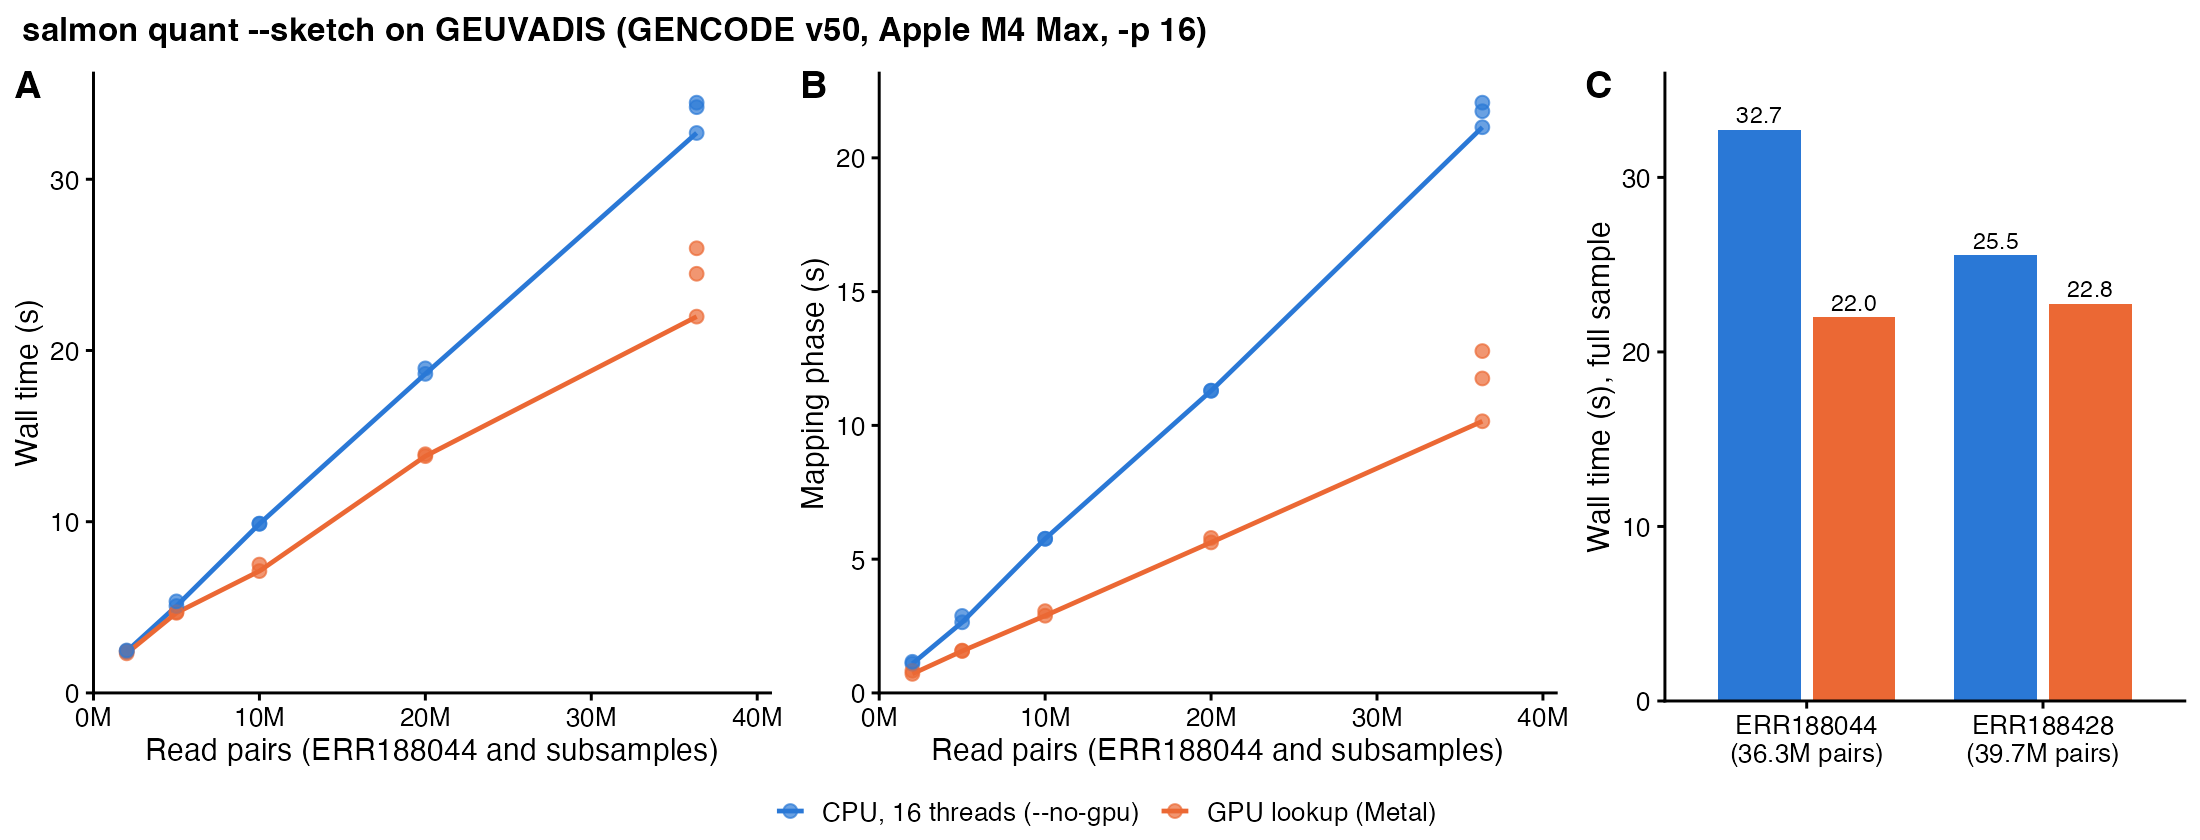
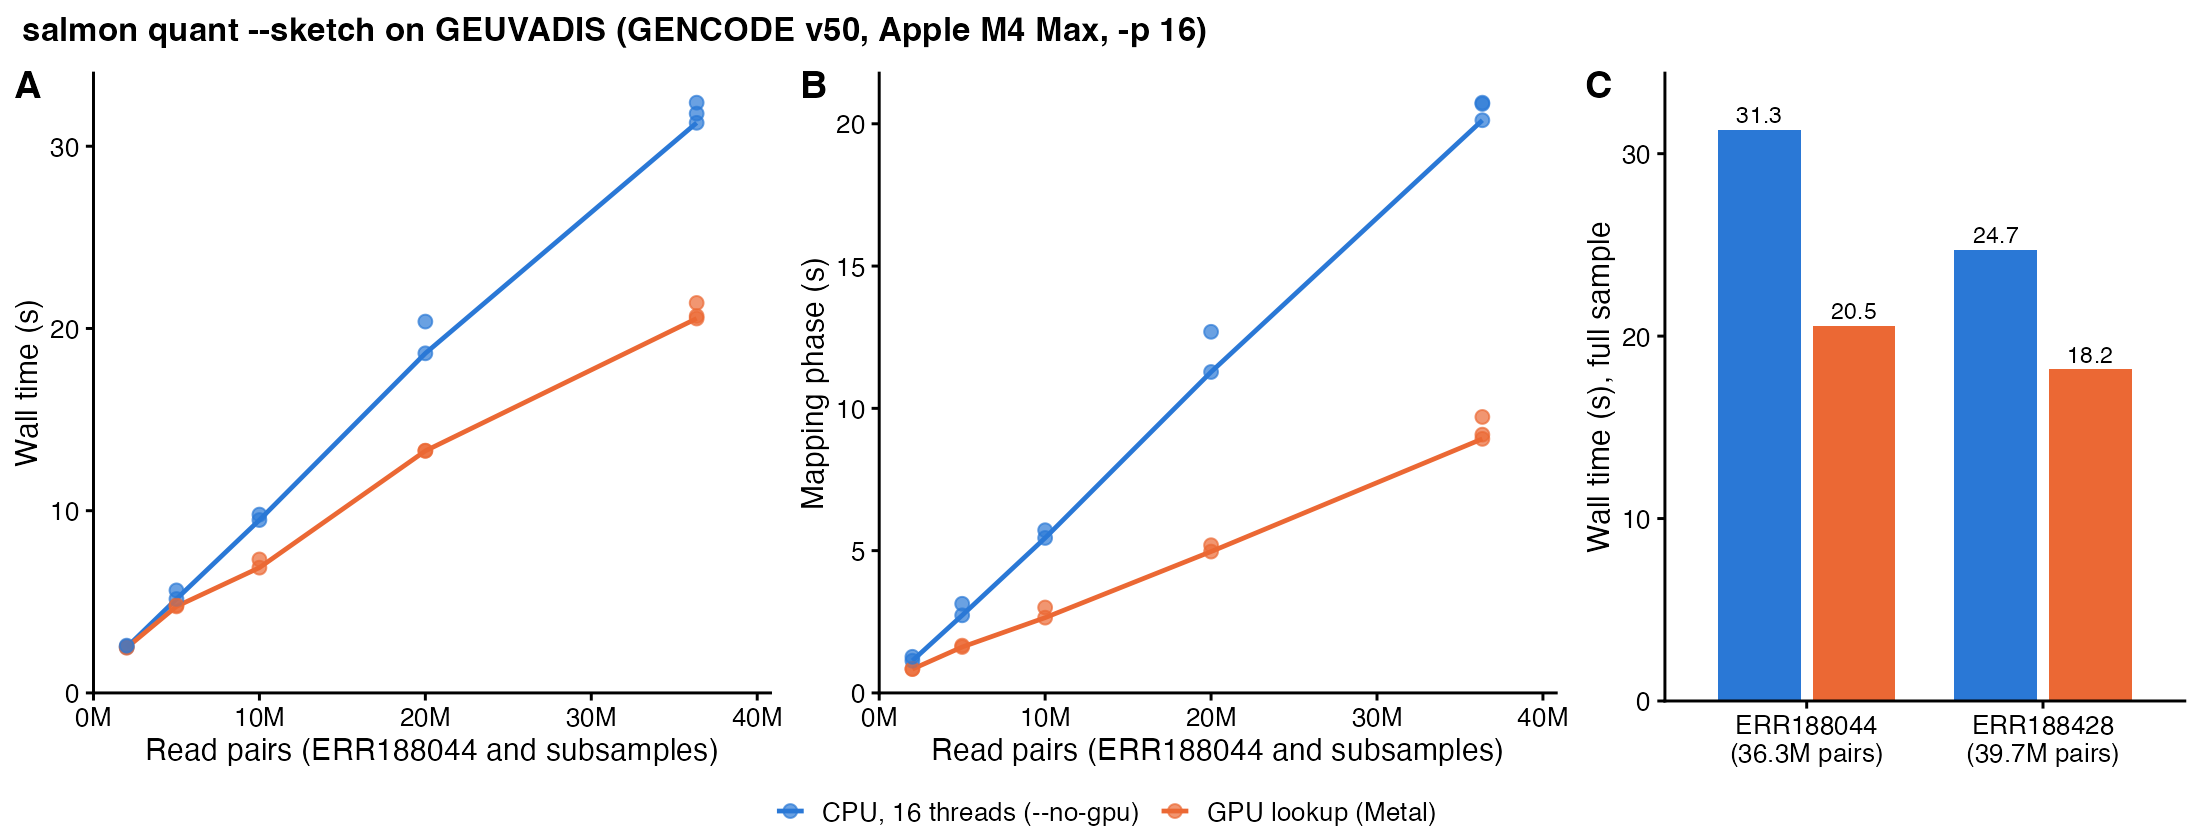
docs(gpu): GEUVADIS after the heavy-bucket table and the read-ahead
Curve and full samples re-measured at e65b475e. GPU path: ERR188044
22.0 -> 20.5 s (mapping 10.2 -> 8.9 s), ERR188428 22.8 -> 18.2 s
(11.1 -> 8.1 s); mapping slope 0.28 -> 0.23 s per million pairs.
Equivalence classes identical to --no-gpu on both samples.

diff --git a/docs/em-architecture-and-optimization.md b/docs/em-architecture-and-optimization.md
@@ -870,8 +870,8 @@ The changes were:
 Two GEUVADIS samples (2×76 bp lymphoblastoid RNA-seq, gzip FASTQ from ENA)
 against GENCODE v50 (654,828 transcripts, `salmon index --gencode`), on the same
 M4 Max with `-p 16 --dumpEq`. Each figure is the fastest of 3 alternated runs.
-The `--sketch` rows were measured with the GPU target selection, under a load
-average of 13–22. The selective-alignment rows are from the round before it,
+The `--sketch` rows were measured with the GPU target selection, the
+heavy-bucket table and the read-ahead, under a load average of 7–16. The selective-alignment rows are from the round before it,
 under 20–110; most of that load came from these runs' own threads. "GPU memory" is the Metal device's allocation once the lookup is
 built (`device_mb` in the `gpu_kmer_table` log line). On Apple silicon it is
 unified memory and is also counted in the process RSS, so the two do not add.
@@ -883,12 +883,12 @@ The index takes 10.9–12.9 s to build (4 builds), peaks at 5.3 GB of RSS and is
 
 | Sample | Mode | Run | Mapping | CPU RAM (peak RSS) | GPU memory | Mapped |
 |---|---|---:|---:|---:|---:|---:|
-| ERR188044, 36.3M pairs | `--sketch`, GPU | 22.0 s | 10.2 s | 3.5 GB | 1,181 MB | 92.8% |
-| | `--sketch`, CPU | 32.7 s | 21.1 s | 2.2 GB | | 92.8% |
+| ERR188044, 36.3M pairs | `--sketch`, GPU | 20.5 s | 8.9 s | 3.7 GB | 1,255 MB | 92.8% |
+| | `--sketch`, CPU | 31.3 s | 20.1 s | 2.2 GB | | 92.8% |
 | | selective alignment, GPU EM | 75.5 s | 55.4 s | 2.9 GB | | 94.4% |
 | | selective alignment, CPU | 81.2 s | 60.4 s | 2.4 GB | | 94.4% |
-| ERR188428, 39.7M pairs | `--sketch`, GPU | 22.8 s | 11.1 s | 3.4 GB | 1,181 MB | 77.2% |
-| | `--sketch`, CPU | 25.5 s | 16.3 s | 1.9 GB | | 77.2% |
+| ERR188428, 39.7M pairs | `--sketch`, GPU | 18.2 s | 8.1 s | 3.8 GB | 1,255 MB | 77.2% |
+| | `--sketch`, CPU | 24.7 s | 15.5 s | 2.0 GB | | 77.2% |
 | | selective alignment, GPU EM | 56.9 s | 41.4 s | 2.4 GB | | 76.1% |
 | | selective alignment, CPU | 54.5 s | 41.0 s | 2.0 GB | | 76.1% |
 
@@ -906,8 +906,8 @@ runs, lines join the fastest run per size. Panel C compares the two full
 samples. ERR188428 is faster despite more pairs because fewer of its reads map
 (77% against 93%), so it is kept off the curve. Both curves still
 grow with the input, the GPU one more slowly. The mapping phase grows by about
-0.28 s per million pairs on the GPU path (0.43 s before the GPU selection) and
-0.58 s on the CPU; kallisto-GPU reports about 0.05 s. On ERR188044, the time
+0.23 s per million pairs on the GPU path (0.28 s before the read-ahead, 0.43 s
+before the GPU selection) and 0.56 s on the CPU; kallisto-GPU reports about 0.05 s. On ERR188044, the time
 outside the mapping phase is the second (RAD) pass, 3.5 s, and the EM with the
 `--dumpEq` write, 7.4 s on either path (10–12 s before SQUAREM ran per
 component and the dump was compressed in parallel).
